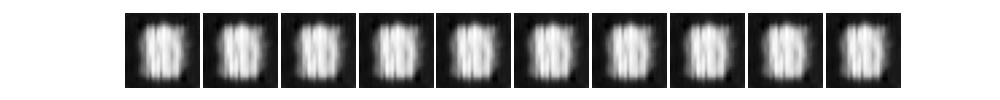
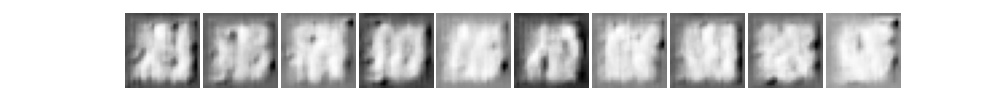
dvae: adding more (and simpler) resblocks

diff --git a/model/dvae.py b/model/dvae.py
@@ -5,8 +5,18 @@ from math import log2
 # Prefer not using einsum for now
 # from torch import einsum
 
+class SimpleResBlock(nn.Module):
+   def __init__(self, x):
+      super().__init__()
+      self.net = nn.Sequential(
+         nn.Conv2d(x, x, 3, padding = 1),
+         nn.ReLU(),
+      )
 
-class ResBlock(nn.Module):
+   def forward(self, x):
+      return self.net(x) + x
+
+class _ResBlock(nn.Module):
     def __init__(self, chan):
         super().__init__()
         self.net = nn.Sequential(
@@ -28,26 +38,32 @@ class dVAE(nn.Module):
       self.encoder = nn.Sequential(
          # W' = (W - kernel + 2*padding) / stride + 1
          nn.Conv2d(channels, hidden_dim, 4, stride = 1, padding = 1),
+         SimpleResBlock(hidden_dim),
          nn.ReLU(),
          nn.Conv2d(hidden_dim, hidden_dim, 4, stride = 1, padding = 1),
+         SimpleResBlock(hidden_dim),
          nn.ReLU(),
          nn.Conv2d(hidden_dim, hidden_dim, 4, stride = 1, padding = 1),
+         SimpleResBlock(hidden_dim),
          nn.ReLU(),
-         ResBlock(hidden_dim),
-         ResBlock(hidden_dim),
+         # _ResBlock(hidden_dim),
+         # _ResBlock(hidden_dim),
          nn.Conv2d(hidden_dim, tokens, 1)
       )
 
       self.decoder = nn.Sequential(
          # W' = (W - 1)*stride - 2*padding + (kernel - 1) + 1
          nn.Conv2d(codebook_dim, hidden_dim, 1),
-         ResBlock(hidden_dim),
-         ResBlock(hidden_dim),
+         # _ResBlock(hidden_dim),
+         # _ResBlock(hidden_dim),
          nn.ConvTranspose2d(hidden_dim, hidden_dim, 4, stride = 1, padding = 1),
+         SimpleResBlock(hidden_dim),
          nn.ReLU(),
          nn.ConvTranspose2d(hidden_dim, hidden_dim, 4, stride = 1, padding = 1),
+         SimpleResBlock(hidden_dim),
          nn.ReLU(),
          nn.ConvTranspose2d(hidden_dim, hidden_dim, 4, stride = 1, padding = 1),
+         SimpleResBlock(hidden_dim),
          nn.ReLU(),
          nn.Conv2d(hidden_dim, channels, 1),
       )

diff --git a/model/transformer.py b/model/transformer.py
@@ -24,8 +24,7 @@ class Attention(nn.Module):
 
       attn_softmax = attn.softmax(dim = -1)
       out = torch.matmul(attn_softmax, v)
-      return qkv
-      # q, k, v = 
+      return qkv 
 
 torch.manual_seed(0)
 x = torch.rand((2, 3, 4))
